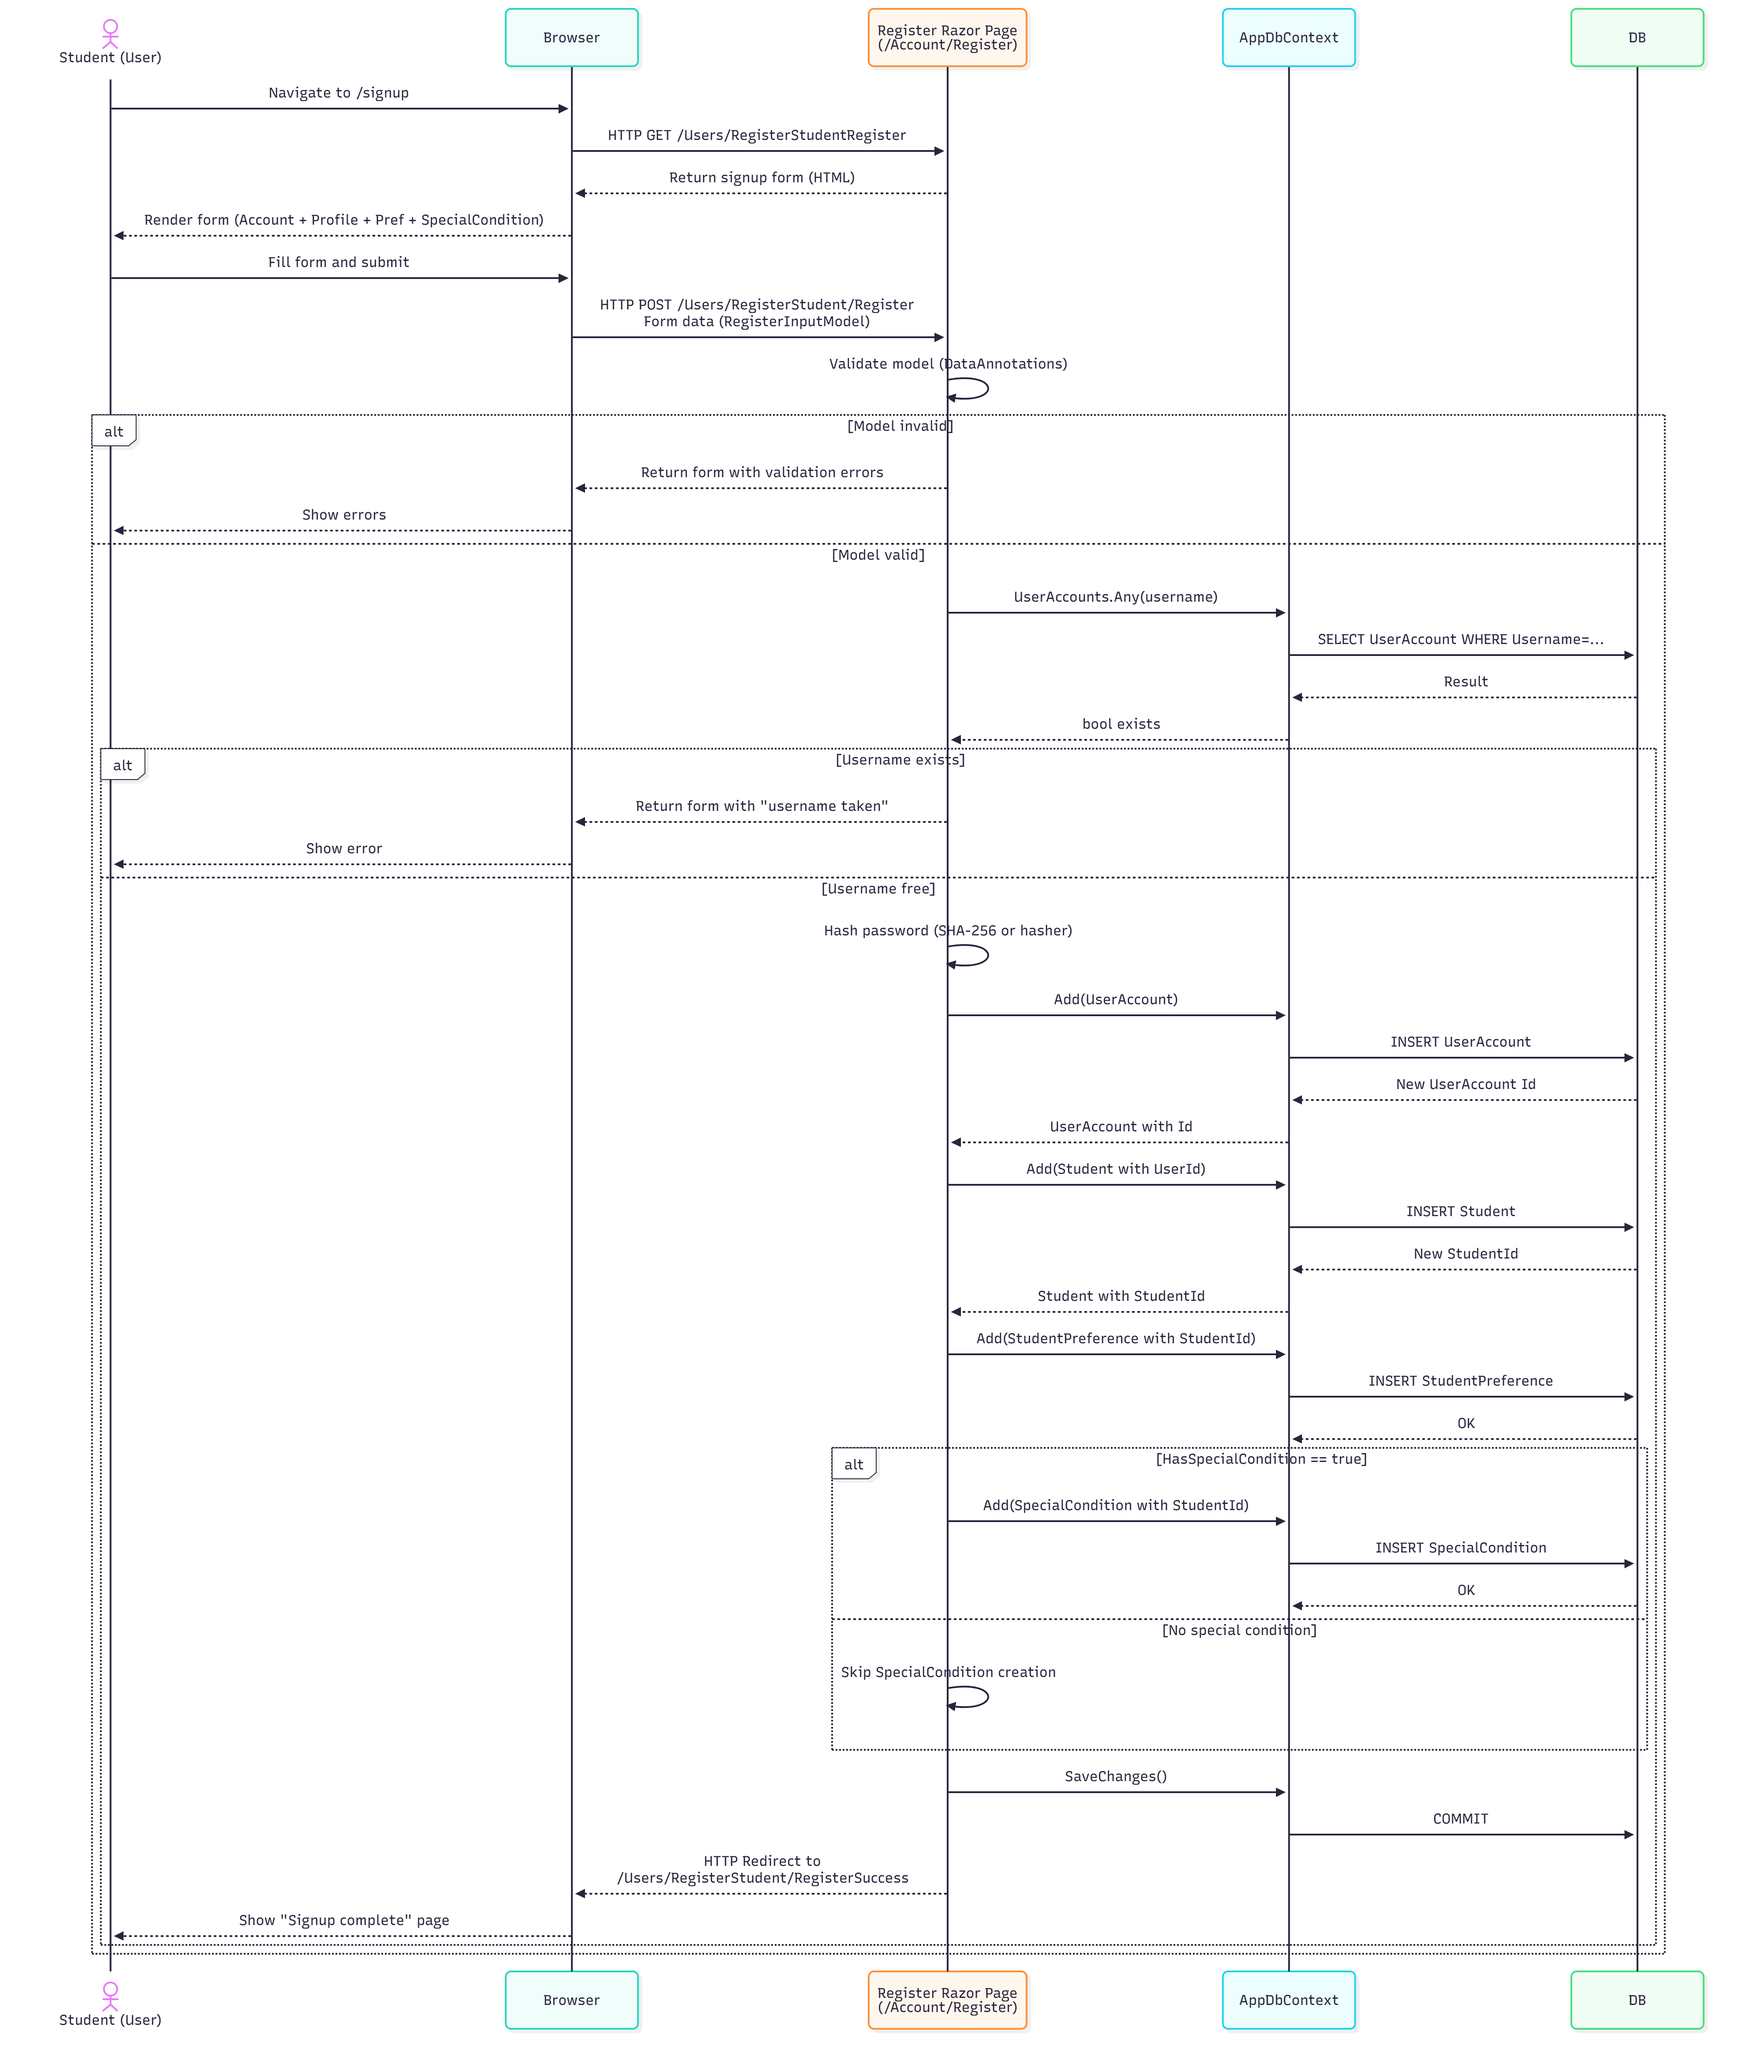
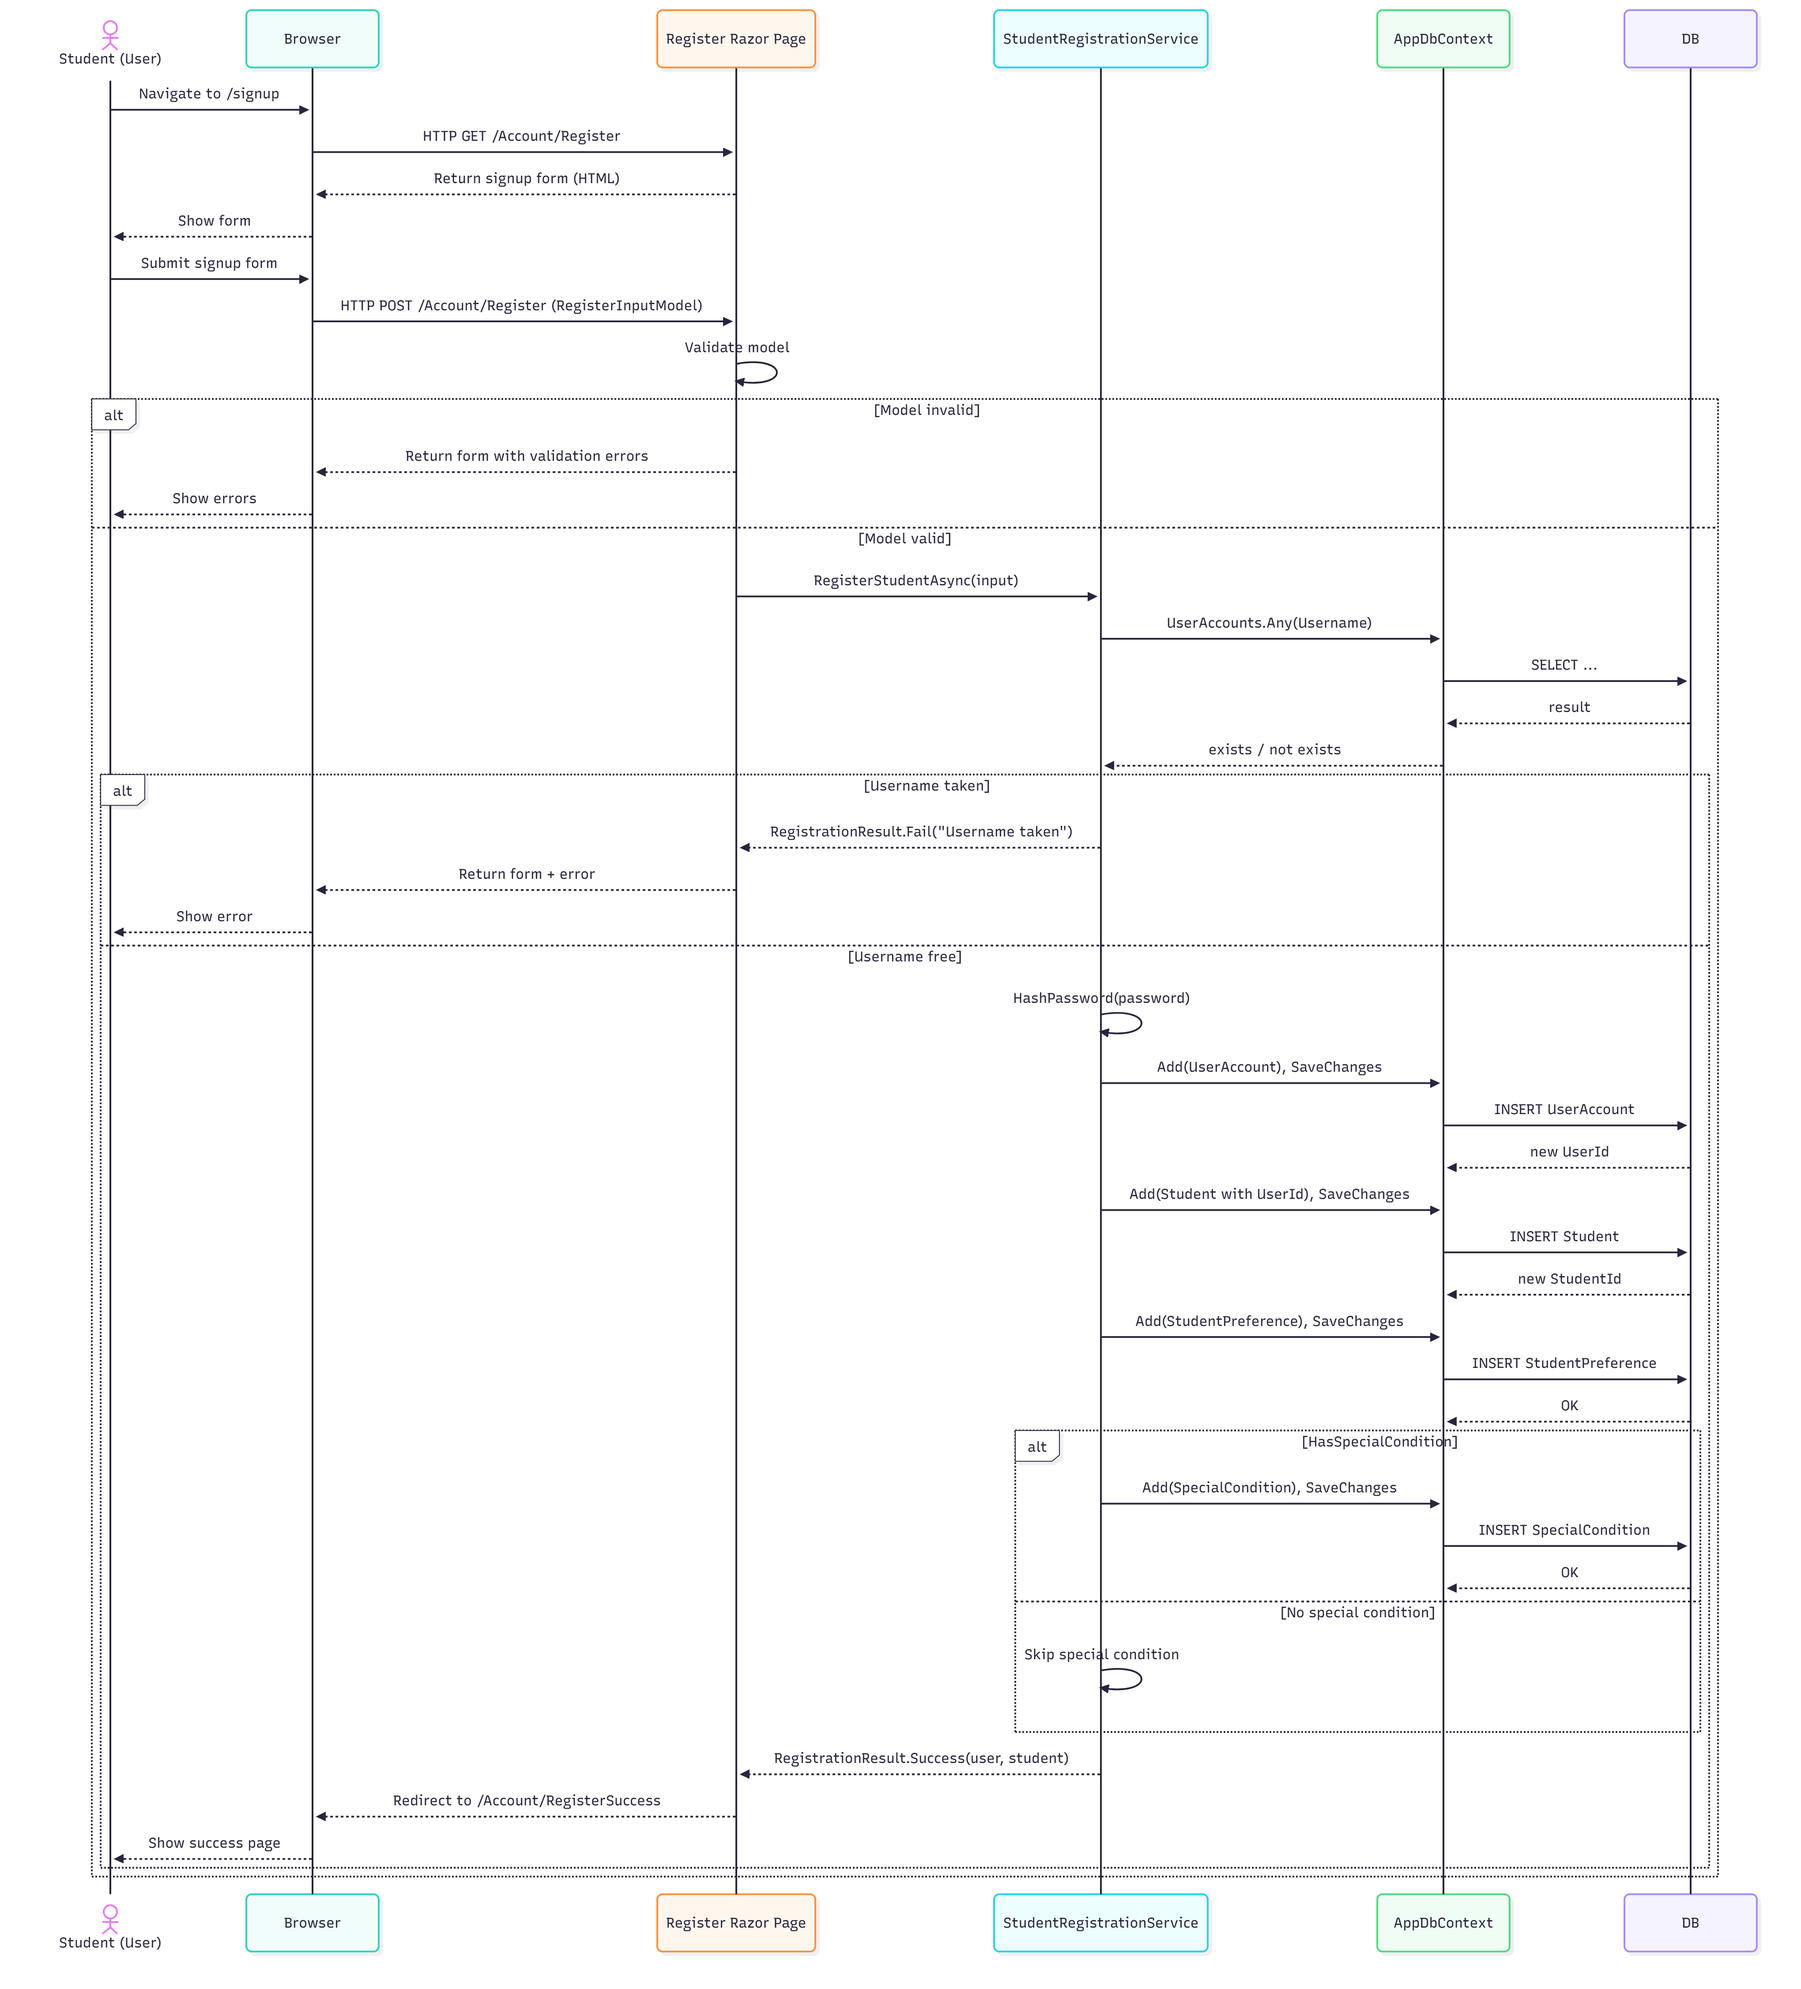
Add ServiceLayer for StudentRegistration and update its SequenceDiagram

diff --git a/SmartDorm/Pages/Features/StudentProfileManagement/RegisterStudent/Register.cshtml.cs b/SmartDorm/Pages/Features/StudentProfileManagement/RegisterStudent/Register.cshtml.cs
@@ -1,22 +1,17 @@
-using System.Security.Cryptography;
-using System.Text;
 using Microsoft.AspNetCore.Mvc;
 using Microsoft.AspNetCore.Mvc.RazorPages;
-using Microsoft.EntityFrameworkCore;
-using SmartDorm.Data;
-using SmartDorm.Enums;
-using SmartDorm.Models;
+using SmartDorm.Services;
 
 namespace SmartDorm.Pages.Features.StudentProfileManagement.RegisterStudent
 {
-    public class RegisterModel(AppDbContext context) : PageModel
+    public class RegisterModel(IStudentRegistrationService _registration) : PageModel
     {
         [BindProperty]
         public RegisterInputModel Input { get; set; } = new();
 
         public void OnGet()
         {
-            // Could set defaults here if needed
+
         }
 
         public async Task<IActionResult> OnPostAsync()
@@ -26,87 +21,15 @@ namespace SmartDorm.Pages.Features.StudentProfileManagement.RegisterStudent
                 return Page();
             }
 
-            // check username uniqueness
-            var existingUser = await context.UserAccounts
-                .AnyAsync(u => u.Username == Input.Username);
+            var result = await _registration.RegisterStudentAsync(Input);
 
-            if (existingUser)
+            if (!result.Succeeded)
             {
-                ModelState.AddModelError("Input.Username", "This username is already taken.");
+                ModelState.AddModelError(string.Empty, result.ErrorMessage!);
                 return Page();
             }
 
-            // Create UserAccount
-            var user = new UserAccount
-            {
-                Username = Input.Username,
-                PasswordHash = HashPassword(Input.Password),
-                Role = UserRole.Student,
-                IsActive = true
-            };
-
-            context.UserAccounts.Add(user);
-            await context.SaveChangesAsync(); // ensure user.Id is generated
-
-            // Create Student
-            var student = new Student
-            {
-                StudentNumber = Input.StudentNumber,
-                FirstName = Input.FirstName,
-                LastName = Input.LastName,
-                Gender = Input.Gender,
-                BirthdayYear = Input.BirthdayYear,
-                FieldOfStudy = Input.FieldOfStudy,
-                EntryYear = Input.EntryYear,
-                DegreeLevel = Input.DegreeLevel,
-                Email = Input.Email,
-                PhoneNumber = Input.PhoneNumber,
-                UserId = user.Id
-            };
-
-            context.Students.Add(student);
-            await context.SaveChangesAsync(); // get StudentId
-
-            // Create StudentPreference
-            var pref = new StudentPreference
-            {
-                StudentId = student.StudentId,
-                SleepHabit = Input.SleepHabit,
-                NoiseToleranceLevel = Input.NoiseToleranceLevel,
-                StudyStyle = Input.StudyStyle,
-                RoomAtmosphere = Input.RoomAtmosphere,
-                RoomCapacity = Input.RoomCapacity
-            };
-
-            context.StudentPreferences.Add(pref);
-
-            // Optional SpecialCondition
-            if (Input.HasSpecialCondition)
-            {
-                var cond = new SpecialCondition
-                {
-                    StudentId = student.StudentId,
-                    ConditionType = Input.ConditionType,
-                    Description = Input.ConditionDescription,
-                    Severity = Input.ConditionSeverity,
-                    Needs = Input.ConditionNeeds
-                };
-
-                context.SpecialConditions.Add(cond);
-            }
-
-            await context.SaveChangesAsync();
-
-            return RedirectToPage("/SuccessPage");
-        }
-
-        // Simple hash for demo.
-        private static string HashPassword(string password)
-        {
-            using var sha = SHA256.Create();
-            var bytes = Encoding.UTF8.GetBytes(password);
-            var hash = sha.ComputeHash(bytes);
-            return Convert.ToBase64String(hash);
+            return RedirectToPage("/Features/StudentProfileManagement/RegisterStudent/SuccessPage");
         }
     }
 

diff --git a/SmartDorm/Services/StudentRegistrationService.cs b/SmartDorm/Services/StudentRegistrationService.cs
@@ -1,0 +1,105 @@
+using SmartDorm.Data;
+using SmartDorm.Enums;
+using System.Text;
+using SmartDorm.Models;
+using SmartDorm.Pages.Features.StudentProfileManagement.RegisterStudent;
+using Microsoft.EntityFrameworkCore;
+using System.Security.Cryptography;
+
+namespace SmartDorm.Services;
+
+public class RegistrationResult
+{
+    public bool Succeeded { get; set; }
+    public string? ErrorMessage { get; set; }
+    public UserAccount? User { get; set; }
+    public Student? Student { get; set; }
+
+    public static RegistrationResult Success(UserAccount u, Student s) =>
+        new() { Succeeded = true, User = u, Student = s };
+
+    public static RegistrationResult Fail(string error) =>
+        new() { Succeeded = false, ErrorMessage = error };
+}
+
+public interface IStudentRegistrationService
+{
+    Task<RegistrationResult> RegisterStudentAsync(RegisterInputModel input);
+}
+
+public class StudentRegistrationService(AppDbContext context) : IStudentRegistrationService
+{
+    public async Task<RegistrationResult> RegisterStudentAsync(RegisterInputModel input)
+    {
+        // username uniqueness
+        var exists = await context.UserAccounts
+            .AnyAsync(u => u.Username == input.Username);
+
+        if (exists)
+            return RegistrationResult.Fail("Username is already taken.");
+
+        var user = new UserAccount
+        {
+            Username = input.Username,
+            PasswordHash = HashPassword(input.Password),
+            Role = UserRole.Student,
+            IsActive = true
+        };
+
+        context.UserAccounts.Add(user);
+        await context.SaveChangesAsync();
+
+        var student = new Student
+        {
+            StudentNumber = input.StudentNumber,
+            FirstName = input.FirstName,
+            LastName = input.LastName,
+            Gender = input.Gender,
+            BirthdayYear = input.BirthdayYear,
+            FieldOfStudy = input.FieldOfStudy,
+            EntryYear = input.EntryYear,
+            DegreeLevel = input.DegreeLevel,
+            Email = input.Email,
+            PhoneNumber = input.PhoneNumber,
+            UserId = user.Id
+        };
+
+        context.Students.Add(student);
+        await context.SaveChangesAsync();
+
+        var pref = new StudentPreference
+        {
+            StudentId = student.StudentId,
+            SleepHabit = input.SleepHabit,
+            NoiseToleranceLevel = input.NoiseToleranceLevel,
+            StudyStyle = input.StudyStyle,
+            RoomAtmosphere = input.RoomAtmosphere,
+            RoomCapacity = input.RoomCapacity
+        };
+        context.StudentPreferences.Add(pref);
+
+        if (input.HasSpecialCondition)
+        {
+            var cond = new SpecialCondition
+            {
+                StudentId = student.StudentId,
+                ConditionType = input.ConditionType,
+                Description = input.ConditionDescription,
+                Severity = input.ConditionSeverity,
+                Needs = input.ConditionNeeds
+            };
+            context.SpecialConditions.Add(cond);
+        }
+
+        await context.SaveChangesAsync();
+
+        return RegistrationResult.Success(user, student);
+    }
+
+    private static string HashPassword(string password)
+    {
+        using var sha = SHA256.Create();
+        var bytes = Encoding.UTF8.GetBytes(password);
+        return Convert.ToBase64String(sha.ComputeHash(bytes));
+    }
+}

diff --git a/SmartDorm/Program.cs b/SmartDorm/Program.cs
@@ -1,6 +1,7 @@
 using Microsoft.AspNetCore.Authentication.Cookies;
 using Microsoft.EntityFrameworkCore;
 using SmartDorm.Data;
+using SmartDorm.Services;
 
 var builder = WebApplication.CreateBuilder(args);
 
@@ -18,6 +19,9 @@ builder.Services.AddAuthentication(CookieAuthenticationDefaults.AuthenticationSc
 builder.Services.AddDbContext<AppDbContext>(options =>
     options.UseSqlite(
         builder.Configuration.GetConnectionString("Sqlite")));
+
+
+builder.Services.AddScoped<IStudentRegistrationService, StudentRegistrationService>();
 
 var app = builder.Build();
 
